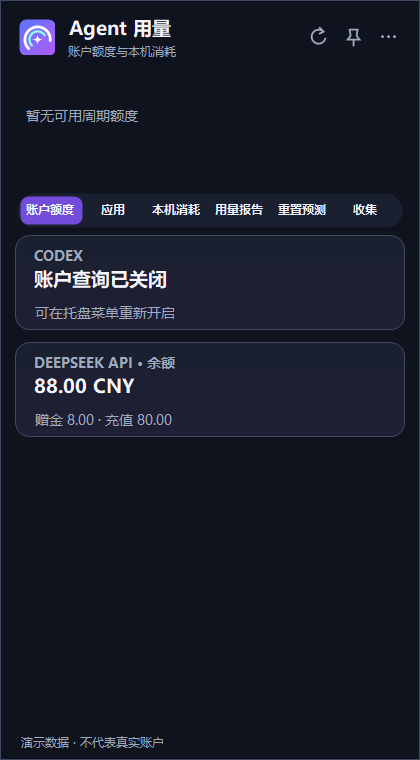
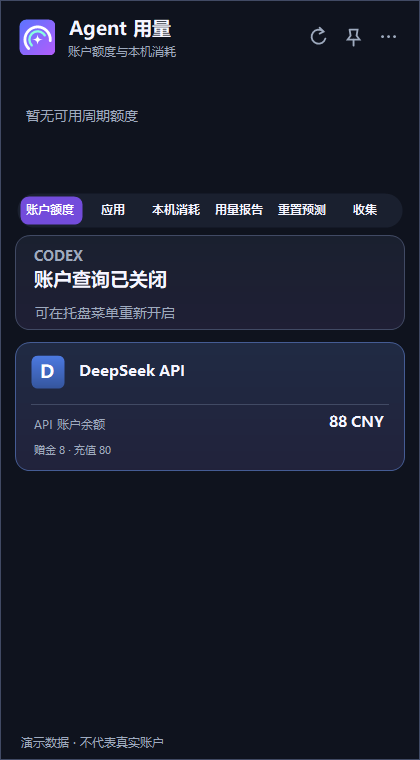
发布 Alpha 14 中文首页、隐私说明和实际渲染预览

Changed region(s): [[0.031, 0.4539, 0.9905, 0.6355]]

diff --git a/README.md b/README.md
@@ -4,87 +4,80 @@
 
 **AI 编程用量，点开托盘就能看。**
 
-基于 [Gary23333/agent-meter](https://github.com/Gary23333/agent-meter) 开发的 Windows 系统托盘工具，用于查看账户额度和本机 Agent 用量。
+账户额度、重置时间、本机消耗，收在 Windows 右下角。
 
-[English](README.en.md) · [开始使用](#开始使用) · [更新记录](windows/CHANGELOG.md) · [隐私与数据](#隐私与数据) · [参与贡献](#参与贡献)
+[![下载预览版](https://img.shields.io/github/v/release/FoxBai/agent-meter-windows?include_prereleases&label=预览版)](https://github.com/FoxBai/agent-meter-windows/releases)
+[![Windows 构建](https://github.com/FoxBai/agent-meter-windows/actions/workflows/windows-port.yml/badge.svg)](https://github.com/FoxBai/agent-meter-windows/actions/workflows/windows-port.yml)
+[![许可证：MIT](https://img.shields.io/badge/License-MIT-blue.svg)](LICENSE)
 
-[![Windows 构建](https://github.com/FoxBai/agent-meter-windows/actions/workflows/windows-port.yml/badge.svg)](https://github.com/FoxBai/agent-meter-windows/actions/workflows/windows-port.yml) [![许可证：MIT](https://img.shields.io/badge/License-MIT-blue.svg)](LICENSE)
+[下载](https://github.com/FoxBai/agent-meter-windows/releases/tag/windows-v0.1.0-alpha.14) · [快速使用](windows/QUICK_START.md) · [更新记录](windows/CHANGELOG.md) · [移植进度](windows/PORT_PLAN.md) · [English](README.en.md)
 
 </div>
 
-> **Windows 早期开发版。** 当前版本尚未覆盖原 macOS 项目的全部数据源和功能。
+基于 [Gary23333/agent-meter](https://github.com/Gary23333/agent-meter) 的独立 Windows 移植版。当前为 **Alpha 14**：已有可运行的便携包，功能、材质和动效仍在向 macOS 原版靠拢。
 
-![Agent Meter 面板，图中为虚构演示数据](windows/assets/screenshot.png)
+<p align="center">
+  <img src="windows/assets/screenshot.png" width="400" alt="深色托盘弹层，虚构演示数据">
+  <img src="windows/assets/screenshot-light.png" width="400" alt="浅色托盘弹层，虚构演示数据">
+</p>
 
-面板截图来自 Alpha 13，在隔离的 Windows 构建环境中使用虚构数据生成。默认界面是无边框托盘弹层；系统圆角和阴影取决于 Windows 版本，预览不包含桌面合成效果。实际字段取决于账户和本机记录。
+截图由真实 Windows 界面在隔离构建机中使用**虚构数据**生成；系统圆角、阴影和任务栏效果不包含在截图中。
+
+## 三步开始
+
+1. 从 [Alpha 14 发布页](https://github.com/FoxBai/agent-meter-windows/releases/tag/windows-v0.1.0-alpha.14) 下载 `AgentMeter-Windows-x64.zip`。
+2. 解压并保留完整文件夹，运行 `AgentMeter.Windows.exe`。便携包已包含运行环境；WorkBuddy 登录另需 [WebView2 Runtime](https://developer.microsoft.com/microsoft-edge/webview2/)。
+3. 点击通知区域的图标查看用量；找不到时展开隐藏图标。右键或顶部三个圆点可切换账户、托盘余量和界面风格。
+
+当前支持 Windows x64，开发验证环境为 Windows build 26300；其他系统版本与 ARM64 尚待验证。预览版未签名，发布页附 SHA-256 校验文件。账户数据依赖对应 Agent 的本地安装与登录状态，首次扫描大量历史记录可能较慢。
+
+## 随用随收，信息一眼可见
+
+- **真正的托盘弹层**：默认约 440 × 680，无系统标题栏，不占任务栏窗口按钮。点击外部或按 Esc 收起，图钉可临时固定；普通窗口模式也保留。
+- **托盘直接看余量**：图标显示剩余百分比，可选固定来源或自动最低余量。悬停查看来源与周期；过期、关闭和未知数据不冒充零。切换显示来源不会开启账户查询。
+- **账户信息集中展示**：双周期额度环、倒计时、套餐、钱包、积分和 Codex 重置卡明细放在对应账户卡片里。重置卡按到期时间排序，支持展开；服务报告的总数不会由程序擅自扣减。
+- **七种界面风格**：极简、原生、瓷白、极光、钛影、霓虹、棱镜。导航、卡片、菜单与分享图使用一致配色。
+
+![托盘数字的尺寸与颜色示例，虚构数据](windows/assets/tray-indicators.png)
+
+托盘自动模式比较百分比，不能据此比较不同服务的绝对额度；余额和积分绝对值不参加比较。图标为整数近似值，悬停保留一位小数。
+
+## 六个页面，各有分工
+
+| 页面 | 可以查看什么 |
+| --- | --- |
+| 账户 | 各服务剩余额度、周期重置时间、可用的套餐与余额，以及独立标注的本机统计 |
+| 应用 | 工具覆盖情况、近期有更新的活动记录；支持筛选和展开数据来源 |
+| 用量 | 今日、近 7 天、近 30 天和累计 Token，7 日模型排行、自然日趋势及今日 API 等价估算 |
+| 报告 | 本周、上周、本月和上月汇总，导出 Markdown 或随主题变化的 PNG 分享图 |
+| 预测 | 主动开启后查看第三方 24 / 48 小时预测、上游加权中位数、明确时间窗口与历史事件 |
+| 收集 | 本机用量徽章、5 小时和 7 天额度窗口的掉落卡片；更多类别仍在移植 |
+
+还提供默认关闭的低额度通知，以及上游「麻薯」「比特」两套桌宠。账户每 15 分钟刷新，也可手动刷新；应用页可见时每分钟单独检查本机活动。桌宠完整互动、通知效果和高 DPI 仍需实机验收。
 
 <details>
-<summary>查看浅色托盘弹层</summary>
+<summary>展开查看账户明细、应用与用量截图</summary>
 
-![瓷白主题托盘弹层，虚构演示数据](windows/assets/screenshot-light.png)
+![账户重置卡明细，虚构演示数据](windows/assets/account-reset-preview.png)
+![应用概览，虚构演示数据](windows/assets/applications-preview.png)
+![本机消耗，虚构演示数据](windows/assets/usage-preview.png)
+![账户本机用量与趋势，虚构演示数据](windows/assets/account-local-preview.png)
 
 </details>
 
 <details>
-<summary>查看本机消耗、报告、预测、收集与余额页面</summary>
+<summary>展开查看报告、预测、收集与余额截图</summary>
 
-![本机消耗页面，图中为虚构演示数据](windows/assets/usage-preview.png)
+![用量报告，虚构演示数据](windows/assets/report-preview.png)
+![报告分享图，虚构演示数据](windows/assets/report-share-preview.png)
+![重置预测，虚构演示数据](windows/assets/forecast-preview.png)
+![收集册，虚构演示数据](windows/assets/collection-preview.png)
+![DeepSeek API 余额，虚构演示数据](windows/assets/deepseek-preview.png)
+![WorkBuddy 积分，虚构演示数据](windows/assets/workbuddy-preview.png)
 
-![账户卡片中独立展示本机用量趋势，图中为虚构演示数据](windows/assets/account-local-preview.png)
-
-![应用概览和数据覆盖状态，图中为虚构演示数据](windows/assets/applications-preview.png)
-
-![用量报告页面，图中为虚构演示数据](windows/assets/report-preview.png)
-
-![重置预测页面，图中为虚构演示数据](windows/assets/forecast-preview.png)
-
-![收集页面，图中为虚构演示数据](windows/assets/collection-preview.png)
-
-![DeepSeek API 余额页面，图中为虚构演示数据](windows/assets/deepseek-preview.png)
-
-![WorkBuddy 积分页面，图中为虚构演示数据](windows/assets/workbuddy-preview.png)
 </details>
 
-<details>
-<summary>查看报告分享图示例</summary>
-
-![报告分享图，图中为虚构演示数据](windows/assets/report-share-preview.png)
-
-图片由程序使用虚构数据生成，报告与分享图已包含在预览版中。
-</details>
-
-## 功能
-
-- **随用随收的托盘弹层**：默认约 440 × 680，无系统标题栏，不占任务栏窗口按钮。左键托盘图标切换显示，点击外部或按 Esc 收起；图钉可临时固定，顶部三个圆点与托盘右键共用设置菜单。
-- **账户查询开关**：在托盘右键菜单的「账户查询」中分别启用或关闭 Codex、Kimi、Claude、MiniMax、DeepSeek API 和 WorkBuddy 账户查询；本机历史统计不受影响。选择保存在当前 Windows 用户的本地设置中，不包含凭据。MiniMax、DeepSeek 和 WorkBuddy 默认关闭，其余三个默认开启。
-- **低额度提醒**：可在托盘菜单主动开启；受支持的账户窗口剩余量低于 20% 时尝试显示 Windows 通知，同一周期避免重复提醒。提醒默认关闭，Windows 通知权限和实际显示效果仍需实机验证。
-- **桌宠（开发中）**：提供上游「麻薯」「比特」两种精灵图形象，默认隐藏；可在托盘菜单显示、切换，单击打开面板或拖动位置。低额度和近期本机记录更新会改变动画。透明穿透、交互及窗口表现尚待实机验证；原版 3D 形象与完整互动仍在移植。
-- **七种主题**：极简、原生、瓷白、极光、钛影、霓虹、棱镜；胶囊导航、服务图形、细滚动轨道和设置菜单使用统一配色。账户页保留额度环，其他页面使用紧凑头部。尚未复现 Mac 版的全部材质与动效。
-- **Codex 账户额度**：在账户服务提供数据时，展示额度窗口、重置时间、积分及重置卡。未提供的字段不会按零显示。
-- **账户分组**：同一服务的多个额度窗口合并到一张卡片，方便同时比较周期；新布局尚待实机验收。
-- **双周期仪表**：同时提供短周期和 7 天额度时显示双环，否则显示单环。账户倒计时在页面可见时按分钟更新，只使用服务给出的时间；到点后提示待刷新，不自行修改剩余额度。
-- **Kimi Code 账户额度**：尝试连接已经运行的本机 Kimi 服务，不主动启动服务；当前仅通过模拟服务验证，真实 Windows 账户尚待验证。
-- **Claude Code 账户额度**：在已有本地订阅凭据文件时，向 Anthropic 的用量接口查询额度；不会刷新或修改原有登录。当前仅通过模拟数据验证，真实 Windows 账户尚待验证。
-- **MiniMax Code 账户额度**：支持在托盘菜单添加、更新和删除最多 5 个账户；密钥保存在 Windows 凭据管理器，各账户分开查询。查询默认关闭，须主动开启。账户列表文件不存在时也可使用已有的 `MINIMAX_TOKEN_PLAN_KEY` 与 `MINIMAX_REGION` 环境变量，修改环境变量后需重启程序。仅经模拟测试，真实账户和窗口尚待实机验证。
-- **DeepSeek API 余额（开发中）**：通过托盘菜单由用户自行添加或删除 API 密钥，保存后启用余额查询；密钥保存在 Windows 凭据管理器，不读取浏览器登录。返回的充值余额和赠金分别显示，不代表订阅额度或本机 Token 消耗。依据 [DeepSeek 官方余额接口](https://api-docs.deepseek.com/zh-cn/api/get-user-balance/)；目前仅经模拟测试，真实账户和窗口交互尚待验收。
-- **WorkBuddy 账户积分（实验功能）**：由用户主动在应用内登录，使用独立的 WebView2 资料目录查询积分；默认关闭。该功能参考上游项目的网页接口实现，接口并非公开稳定的官方契约；真实账号和登录流程尚待验证。需要单独安装 [Microsoft Edge WebView2 Runtime](https://developer.microsoft.com/microsoft-edge/webview2/)。
-- **账户卡片内的本机用量**：当账户额度及对应账本可读取时，在 Codex、Kimi、Claude、WorkBuddy 额度卡片中展示本机 Token 汇总；有有效逐日记录时展示近 30 个北京时间自然日的趋势。本机记录未按登录账户区分，不能当作当前账户的用量；MiniMax 多账户不会重复归入同一份本机账本。
-- **应用概览**：按工具汇总已读取的账户额度、本机 Token 和近 24 小时活动记录，支持按最近更新筛选并展开数据覆盖状态；近期记录更新不代表应用正在运行。
-- **应用活动单独刷新**：仅在应用页可见时，按至少 60 秒的间隔单独读取本机活动；与完整刷新互斥，不查询账户。隐藏面板或切换页面会取消当前活动读取；定时器交互和资源占用仍需实机验收。
-- **本机用量**：读取支持的会话账本，展示今日、近 7 天、近 30 天和累计 Token。Qoder CN 本机积分消耗单独展示，不计入 Token。账户额度和本机历史分别展示，统计范围不同。
-- **应用活动**：汇总近 24 小时各客户端活动记录，并标出采集时最近 15 分钟有更新的记录数；这只是记录更新时间，不代表进程仍在运行或任务已完成。不同客户端的覆盖范围可能不同。
-- **模型排行**：按近 7 天的本机记录汇总模型用量；当读取出错、模型明细不完整或数量超过采集上限时，界面会标注统计不完整。不同账本可能包含重叠记录，汇总值并非账户总用量。
-- **本机趋势**：按北京时间展示最近 7 个自然日的 Token 柱状图；与按过去 7×24 小时统计的排行周期不同。仅汇总支持逐日记录的本机账本，读取不完整时会提示。
-- **自然周期报告**：提供本周、上周、本月和上月的本机 Token 汇总，提示当前周期尚未结束；可导出汇总 Markdown 或跟随当前风格的 PNG 分享图。实际导出交互仍待实机验收。
-- **重置预测**：主动开启后，可看各站 24 / 48 小时数值、上游算法计算的加权中位数、站点数值范围、明确时间窗口及最多 40 条历史事件。超过 48 小时的站点不参与合并；不把缺失记作零，也不把时间到点当作已重置。默认关闭，不代表 OpenAI 官方承诺或个人额度周期。
-- **收集册（开发中）**：按上游规则从本机逐日账本计算单日、累计、连续使用、多应用及个人纪录徽章；可能重叠的账本会影响结果，不完整来源会标注。签到、图片、花费类徽章和对应卡片尚未移植，界面仍待实机验收。
-- **额度掉落卡片（开发中）**：复用上游 5 小时与 7 天窗口的用量阈值，同一窗口的同一等级只记录一次。额度状态和卡片数量保存在本地；缺少可信额度或重置时间时不会猜测掉落。窗口交互和真实账户仍待验收。
-- **API 等价估算**：对本机账本中能匹配价格的模型，显示今日美元估算；缺少价格、用量拆分或必要峰谷信息时标注不完整。可从托盘菜单编辑自定义美元价格，覆盖上游内置快照。内置价格可能过时，部分人民币价格按固定汇率 1 美元 = 7.25 元换算；这不是订阅扣费或实际账单。实时价格与汇率同步尚未接入。
-- **后台刷新**：账户数据可先显示，历史记录继续在后台扫描。支持手动刷新和每 15 分钟自动刷新；程序运行期间会在内存中缓存已解析的用量，变化的文件会重新读取。
-
-## 数据来源
-
-下表描述当前 `main` 分支，下载包的具体范围以对应发布说明为准。
+## 支持的数据来源
 
 | 来源 | 账户额度 | 本机 Token 历史 |
 | --- | --- | --- |
@@ -101,23 +94,28 @@
 | MiMo Code、DevECo | 暂不支持 | 本机用量数据库 |
 | Qoder CN | 暂不支持 | 本机积分消耗，不是 Token 或账户余额 |
 
-新增的 Kimi、OpenCode、MiniMax Code、MiMo Code、DevECo 和 Qoder CN 读取器已通过 Windows 模拟数据测试，但尚未在这台 Windows 电脑上用对应真实安装验证；OpenCode v2 消息暂不计入。工具只展示实际读取到的数据。不同账户可能不提供某些字段，应用版本变化也可能影响读取。本机历史只覆盖当前电脑可见的记录，不等于账户总用量、账单或套餐剩余额度。目前“今日”等统计周期按**北京时间（Asia/Shanghai）**划分，不会把不同服务的积分相加。
+Codex 账户和部分本机账本已有真实数据核对；其他新增账户接入目前以模拟测试为主。OpenCode v2 消息暂不计入；Windows 版尚未完成所有上游数据源、账户隔离、3D 桌宠和动效。逐项证据与待验收内容见[移植计划](windows/PORT_PLAN.md)。
 
-## 开始使用
+## 数字怎么理解
 
-### 环境要求
+**账户额度与本机历史分别计量。** 本机历史只覆盖当前电脑能读取的记录，未按登录账户归属，不等于账户总用量；不同账本可能重叠。今日、自然日和周月报告使用北京时间（Asia/Shanghai），近 7 天等滚动窗口另行标注。未知不等于零，不同服务的积分不相加。
 
-- Windows x64，并在本机安装、配置需要查看的 Agent。本项目已在 Windows build 26300 上进行开发验证；其他系统版本和 Windows ARM64 仍需验证。
-- 从源码构建需要 Python 3.10 和 .NET 8 SDK。构建出的独立目录包含 Python 后端和 .NET 运行时。
-- 查看 Codex 账户额度需要可用且已登录的 `codex.exe`，其位置应在 `PATH` 中或 Codex Desktop 安装目录内。Agent Meter 不负责登录账户。
+API 等价估算使用上游内置价格快照或本机自定义美元价格，单位为每百万 Token；部分人民币价格使用 1 美元 = 7.25 元的固定回退汇率。它不是实际账单或订阅扣费，缺少必要字段时会标注不完整。实时价格、汇率和更完整的峰谷设置仍在移植。
 
-### 下载预览版
+预测来自第三方站点。范围带表示站点数值的最小值与最大值，不能当作置信区间；超过 48 小时的来源不参与合并。预测时间到点只显示待确认，不代表 OpenAI 承诺或个人账户已重置。
 
-前往 [Windows v0.1.0-alpha.13 发布页](https://github.com/FoxBai/agent-meter-windows/releases/tag/windows-v0.1.0-alpha.13)，下载 `AgentMeter-Windows-x64.zip`，解压后运行其中的 `AgentMeter.Windows.exe`。便携包已包含程序运行环境；WorkBuddy 登录另需 Microsoft Edge WebView2 Runtime。当前预览版尚未进行代码签名，发布页同时提供 SHA-256 校验文件；弹层失焦、固定、子窗口、Esc 和翻页键已在隔离 Windows 构建机检查；真实任务栏、多屏、高 DPI 及另一台全新实体电脑仍待验收。
+## 隐私与数据
 
-### 从源码构建
+- 本机历史只在本机处理，界面使用汇总指标，不上传会话记录，也不要求注册 Agent Meter 账户。
+- Codex、Kimi、Claude 查询默认开启；MiniMax、DeepSeek、WorkBuddy、第三方预测、通知和桌宠默认关闭。账户开关不影响本机账本读取。
+- 启用账户查询时会联系对应服务。Codex 使用已有登录，Claude 使用已有本地订阅凭据；MiniMax 和 DeepSeek 密钥保存在 Windows 凭据管理器。WorkBuddy 使用独立的 WebView2 登录目录。
+- Windows 界面尚未开放自动领取或兑换积分。托盘来源设置只保存模式，切换或更新图标不额外联网。
 
-在项目根目录打开 PowerShell：
+凭据传递方式、网络域名、本地缓存、删除与退出登录的区别，见[隐私与本地数据说明](windows/PRIVACY.md)。安全问题请按 [SECURITY.md](SECURITY.md) 反馈。
+
+## 从源码构建
+
+需要 Python 3.10 与 .NET 8 SDK。在项目根目录打开 PowerShell：
 
 ```powershell
 py -3.10 -m venv .venv-win
@@ -126,57 +124,35 @@ powershell -NoProfile -ExecutionPolicy Bypass -File windows\build.ps1
 .\windows\dist\AgentMeter\AgentMeter.Windows.exe
 ```
 
-请保留完整的 `AgentMeter` 输出目录。启动后在 Windows 通知区域查找图标；如果没有直接看到，可展开隐藏的图标。首次需要扫描已有的本机记录，记录较多时可能耗时较长；程序继续运行期间，后续刷新可以复用内存缓存，但文件变化和缓存淘汰仍会影响速度。
-
-如果只想查看界面，可运行不读取账户和本机历史的演示模式：
-
-```powershell
-.\windows\dist\AgentMeter\AgentMeter.Windows.exe --demo
-```
-
-排查时可使用 `--window`，以普通任务栏窗口显示真实数据；日常使用无需添加参数。点击外部或按 Esc 只收起面板；退出程序请从右键或顶部更多菜单选择**退出**。详细交互见 [弹层设计说明](windows/DESIGN.md)。
-
-### 运行测试
+`--demo` 使用虚构数据，不读取真实账户或历史；`--window` 以普通窗口查看真实数据。退出请在菜单中选择「退出」，收起面板会继续后台运行。
 
 ```powershell
 powershell -NoProfile -ExecutionPolicy Bypass -File windows\test.ps1
 dotnet build windows\AgentMeter.Windows -c Release
 ```
 
-上述命令覆盖当前 Windows 适配的重点路径，不代表原项目全部 macOS 功能均已在 Windows 验证。部分上游测试还需要额外工具，或包含针对其他系统的假设。
-
-## 隐私与数据
-
-Windows 适配层读取本机会话文件和用量数据库，提取用量指标，不在面板中展示对话内容。应用活动读取器会访问会话时间和项目路径等元数据，但只向界面传递各应用的汇总计数和更新时间，不传递会话标识、项目路径或内容。解析后的用量只缓存在有限的进程内存中，退出时清除。Windows 界面不上传这些历史记录，也不要求注册 Agent Meter 账户。Codex、Kimi、Claude 账户查询默认开启，MiniMax 和 DeepSeek API 查询默认关闭；可在托盘菜单分别调整，选择保存在 `%LOCALAPPDATA%\AgentMeter\preferences.json`，只包含开关状态。自定义价格、外观、提醒和桌宠设置保存在同一目录；价格文件无法读取时会隐藏金额并提示。额度提醒只在当前进程内去重，重启后可能再次提示。桌宠素材随程序内置，动画不连接网络。
-
-第三方重置预测默认关闭。开启后会通过 HTTPS 访问 `willreset.com`、`codex-reset.com` 和 `codexreset.org`，不发送账户凭据或本机会话；公开预测及其历史缓存在 `%LOCALAPPDATA%\AgentMeter\reset-forecast.json`，关闭开关不会自动删除缓存。已发出的请求无法撤回。
-
-额度掉落卡片通过本地进程的标准输入传递必要的额度字段和多账户名称，将已观察到的额度窗口、峰值、重置时间与卡片数量保存在 `%LOCALAPPDATA%\AgentMeter\collection.json`，不保存密钥或会话内容。多账户名称以摘要区分；修改账户名称会被视为新的跟踪对象。关闭账户查询后不再获取该账户的新额度，已有本地卡册不会自动删除；账本无法读取时会提示，不会按空账本覆盖。
-
-刷新 Codex 账户数据时，程序会启动本机已安装的 Codex app-server，使用现有登录状态，Codex 可能访问服务提供方。若 Claude Code 本地订阅凭据文件存在，程序会在内存中读取其中的访问令牌，通过 HTTPS 向 Anthropic 用量接口发送该令牌；不会刷新、修改或保存该令牌。用户添加的 MiniMax 密钥由 Windows 凭据管理器保存；账户名称、区域及随机标识保存在本地 `minimax-accounts.json`，不包含密钥。开启查询后，密钥通过子进程标准输入传递，并通过 HTTPS 发往所选区域的 MiniMax 用量接口；不放在命令行或应用日志中。仅在账户列表文件不存在时回退到环境变量；通过界面清空账户后会保留空列表，不会自动使用环境变量。关闭来源时程序会尝试中止当前账户查询，已发出的请求无法撤回。程序不会主动发送模型提示词或兑换积分。
-
-DeepSeek API 密钥由用户自行添加并保存于 Windows 凭据管理器；启用查询时经本地子进程标准输入传递，并通过 HTTPS 发往 DeepSeek 官方余额接口，不写入命令行或应用日志。该功能不读取浏览器登录或环境变量中的密钥；可在托盘菜单删除已保存的密钥并关闭查询。
-
-WorkBuddy 登录使用 `%LOCALAPPDATA%\AgentMeter\webprofiles\workbuddy` 独立目录，保存网站 Cookie 和网页存储，不读取已有浏览器资料。取消登录不会清除资料；「清除本地登录」清理该目录对应的浏览数据，不等于在服务端退出登录。启用后，所需 Cookie 和浏览器标识经本地子进程标准输入传递，发送至 WorkBuddy 的 HTTPS 用量接口，不写入命令行或应用日志。程序检查目录重定向及可能覆盖资料目录的 WebView2 设置，无法确认隔离时停止连接；系统中与本应用无关的覆盖策略也可能导致停用。登录主窗口和弹窗仅允许 WorkBuddy、QQ 和腾讯域名的 HTTPS 跳转，外部应用和下载被阻止，其他登录方式可能无法使用。网站仍可能加载自身所需的网页资源。
-
-原 macOS 项目的可选积分领取功能没有在 Windows 界面开放。如果工作环境对本机会话访问有要求，请自行检查代码和相应服务的使用规则。
+针对性测试覆盖 Windows 适配重点路径；CI 另外检查打包程序、托盘切换、弹层生命周期、WebView2 隔离与演示渲染。通过构建和隔离检查不等于完成所有实体设备验收。
 
 ## 常见问题
 
-- **找不到托盘图标**：展开通知区域的隐藏图标；也可以使用 `--window` 检查面板。
-- **没有 Codex 额度**：确认 `codex.exe` 可用且已登录，再刷新；网络或服务异常也可能导致暂时不可用。
-- **没有本机历史**：确认当前 Windows 用户已使用过相应 Agent，且本机记录仍存在。可通过 `CODEX_HOME`、`CLAUDE_CONFIG_DIR`、`DSH_HOME`、`KIMI_CODE_HOME`、`XDG_DATA_HOME` 和 `OPENCODE_DB` 覆盖对应默认路径。
-- **首次刷新较慢**：首次需要解析已有文件，程序保持运行时后续刷新通常较快；文件变化、缓存淘汰或记录过多仍可能影响速度。
-- **和官方页面数字不同**：本机历史与账户统计的范围、更新时间不同；缺失或无法识别的字段不会被假定为零。
+| 现象 | 处理方法 |
+| --- | --- |
+| 托盘没有数字 | 检查「托盘余量」来源及对应账户开关；数据未知、超过 30 分钟或窗口已到重置时间时恢复为应用图标 |
+| 没有 Codex 额度 | 确认已登录的 `codex.exe` 在 PATH 或 Codex Desktop 安装目录中，再刷新 |
+| 没有本机历史 | 确认当前 Windows 用户已使用过对应工具且记录仍在；可用 `CODEX_HOME`、`CLAUDE_CONFIG_DIR`、`DSH_HOME`、`KIMI_CODE_HOME`、`XDG_DATA_HOME` 或 `OPENCODE_DB` 指定路径 |
+| 首次刷新慢 | 首次需要扫描历史，后续复用有限的内存缓存；退出、文件变化或缓存淘汰后需要重新读取 |
+| 数字与官方页面不同 | 核对账户额度和本机历史的范围、周期、更新时间与不完整来源提示 |
 
-## 开发与致谢
-
-Windows 原生界面和适配层位于 [`windows/`](windows/)。[`agent_meter/`](agent_meter/) 中的 Python 采集器基于 [Gary23333/agent-meter](https://github.com/Gary23333/agent-meter) 修改，上游基准提交为 [`ac547d0`](https://github.com/Gary23333/agent-meter/commit/ac547d0dd56031cad70c3f0adf6266ce96a69bf9)。原作者版权声明和 MIT 许可保留在 [LICENSE](LICENSE)，上游第三方声明见 [THIRD_PARTY_NOTICES.md](THIRD_PARTY_NOTICES.md)。本项目是独立移植版，并非原项目或任何 Agent 服务商的官方发行版。
+更多交互见[快速使用](windows/QUICK_START.md)，布局和失焦规则见[弹层设计](windows/DESIGN.md)。
 
 ## 参与贡献
 
-欢迎提交问题和改进。反馈时请说明 Windows 版本、应用版本、涉及的数据源、预期结果和经过脱敏的复现步骤；不要在公开问题中附上凭据、对话记录或私密账户信息。提交改动前请运行上述针对性测试，并说明尚未验证的平台或数据源。
+欢迎通过 [Issues](https://github.com/FoxBai/agent-meter-windows/issues) 反馈，或提交改进。请提供 Windows 版本、应用版本、数据源、预期结果和脱敏后的复现步骤；请勿附上凭据、私密账户信息或对话内容。
 
-## 许可证
+Windows 新代码、注释与文档以中文为主。修改前阅读 [贡献说明](CONTRIBUTING.md)；提交时附上针对性测试结果，界面改动请提供虚构数据截图，并说明尚未验证的平台。当前优先项：更多原版数据源、多屏与高 DPI、账户归属、材质与动效。
 
-[MIT](LICENSE)，保留原作者 Gary23333 的版权声明；第三方组件遵循各自许可。
+## 致谢与许可
+
+感谢 [Gary23333/agent-meter](https://github.com/Gary23333/agent-meter) 提供原版设计、采集器和素材。移植基准为 [`ac547d0`](https://github.com/Gary23333/agent-meter/commit/ac547d0dd56031cad70c3f0adf6266ce96a69bf9)，Windows 原生界面与适配层位于 [`windows/`](windows/)。本项目是独立移植版，并非上游或任何 Agent 服务商的官方发行版。
+
+[MIT](LICENSE)，保留原作者 Gary23333 的版权声明；第三方组件和素材遵循各自许可，见 [THIRD_PARTY_NOTICES.md](THIRD_PARTY_NOTICES.md)。

diff --git a/README.en.md b/README.en.md
@@ -16,12 +16,14 @@ A Windows system-tray companion for account limits and local agent usage, built 
 
 ![Agent Meter panel with fictional demo data](windows/assets/screenshot.png)
 
-The Alpha 13 panel previews use fictional data on an isolated Windows runner. The default panel is a borderless tray flyout; desktop-composited corners and shadows are not included in these renders. Actual availability depends on the agent, account, local files and version. See also the [local usage](windows/assets/usage-preview.png), [calendar report](windows/assets/report-preview.png), [reset forecast](windows/assets/forecast-preview.png), [collection](windows/assets/collection-preview.png), [DeepSeek balance](windows/assets/deepseek-preview.png) and [share card](windows/assets/report-share-preview.png) previews.
+The Alpha 14 panel previews use fictional data on an isolated Windows runner. The default panel is a borderless tray flyout; desktop-composited corners and shadows are not included in these renders. Actual availability depends on the agent, account, local files and version. See also the [local usage](windows/assets/usage-preview.png), [calendar report](windows/assets/report-preview.png), [reset forecast](windows/assets/forecast-preview.png), [collection](windows/assets/collection-preview.png), [DeepSeek balance](windows/assets/deepseek-preview.png) and [share card](windows/assets/report-share-preview.png) previews.
 
 ## What it does
 
 - **Tray flyout** — a compact borderless panel with no taskbar window button. Click the tray icon to toggle, click outside or press Esc to dismiss, or pin it temporarily. The top menu and tray context menu share the same settings.
-- **Account switches** — enable or disable Codex, Kimi, Claude, MiniMax and DeepSeek account lookups independently from the tray menu. Local history is unaffected. The per-user preferences contain only switches, never credentials; MiniMax and DeepSeek are off by default.
+- **Tray remaining percentage** — choose a provider, the lowest valid window, or the brand icon. Unknown, expired and disabled readings are excluded; a tooltip identifies the source and period. Selection adds no account queries.
+- **Unified account details** — balances, wallets, supported plan names and Codex reset-credit expiry tiles appear within the relevant account card. Expired details do not rewrite provider-reported totals.
+- **Account switches** — enable or disable Codex, Kimi, Claude, MiniMax and DeepSeek account lookups independently from the tray menu. Local history is unaffected. The per-user preferences contain only switches, never credentials; MiniMax, DeepSeek and WorkBuddy are off by default.
 - **Low-quota alerts** — optionally enable Windows notifications below 20% remaining; repeat alerts for the same window are suppressed. Alerts default to off, and actual notification display still needs device testing.
 - **Desktop pet (in development)** — includes the upstream Mochi and Bit sprite packs, hidden by default. Users can show, switch and drag them from the tray menu; animations respond to low quota and recent local updates. Transparency and interaction still need device testing, and the upstream 3D characters and full interactions are not yet ported.
 - **Appearance** — choose from seven named palettes and card styles in the tray menu; the choice is remembered. The Windows port does not yet reproduce all macOS materials or animations, and visual review is ongoing.
@@ -73,7 +75,7 @@ The new Kimi, OpenCode, MiniMax Code, MiMo Code, DevECo and Qoder CN readers hav
 
 ### Download the preview
 
-Download [Windows v0.1.0-alpha.13](https://github.com/FoxBai/agent-meter-windows/releases/tag/windows-v0.1.0-alpha.13), extract `AgentMeter-Windows-x64.zip`, and run `AgentMeter.Windows.exe` from the extracted folder. The portable bundle includes the application runtime; WorkBuddy requires a separately installed WebView2 Runtime. The preview is not code-signed; the release page includes a SHA-256 checksum. Isolated Windows checks cover deactivation, pinning, owned windows, Esc and scrolling. Real taskbar, multi-monitor, high-DPI and a separate clean physical installation remain unverified.
+Download [Windows v0.1.0-alpha.14](https://github.com/FoxBai/agent-meter-windows/releases/tag/windows-v0.1.0-alpha.14), extract `AgentMeter-Windows-x64.zip`, and run `AgentMeter.Windows.exe` from the extracted folder. The portable bundle includes the application runtime; WorkBuddy requires a separately installed WebView2 Runtime. The preview is not code-signed; the release page includes a SHA-256 checksum. Isolated Windows checks cover deactivation, pinning, owned windows, Esc and scrolling. Real taskbar, multi-monitor, high-DPI and a separate clean physical installation remain unverified.
 
 ### Build from source
 
@@ -107,7 +109,7 @@ These are targeted tests, not a claim that every upstream macOS feature is cover
 
 ## Privacy and data
 
-The Windows adapter reads local session files and usage databases; it derives usage metrics rather than displaying conversation text. The activity reader accesses timestamps and project-path metadata but passes only per-application counts and update times to the interface, not session IDs, paths or content. Parsed usage is held in a bounded in-memory cache and is discarded when the app exits. The Windows interface does not upload this history or require an Agent Meter account. Codex, Kimi and Claude account lookups default to on; MiniMax and DeepSeek default to off. Switch states are saved without credentials in `%LOCALAPPDATA%\AgentMeter\preferences.json`. Custom prices and appearance are stored as `prices.json` and `appearance.json` in the same directory; a malformed price file hides estimates and shows a notice. Codex account refresh starts the locally installed Codex app-server, which uses the existing Codex login and may contact the provider. If a Claude Code subscription credential file exists, the app reads its access token in memory and sends it over HTTPS to Anthropic's usage endpoint; it does not refresh or modify that token.
+The Windows adapter reads local session files and usage databases; it derives usage metrics rather than displaying conversation text. The activity reader accesses timestamps and project-path metadata but passes only per-application counts and update times to the interface, not session IDs, paths or content. Parsed usage is held in a bounded in-memory cache and is discarded when the app exits. The Windows interface does not upload this history or require an Agent Meter account. Codex, Kimi and Claude account lookups default to on; MiniMax, DeepSeek and WorkBuddy default to off. Switch states are saved without credentials in `%LOCALAPPDATA%\AgentMeter\preferences.json`. Custom prices and appearance are stored as `prices.json` and `appearance.json` in the same directory; a malformed price file hides estimates and shows a notice. Codex account refresh starts the locally installed Codex app-server, which uses the existing Codex login and may contact the provider. If a Claude Code subscription credential file exists, the app reads its access token in memory and sends it over HTTPS to Anthropic's usage endpoint; it does not refresh or modify that token.
 
 Third-party forecasts are off by default. Enabling them contacts `willreset.com`, `codex-reset.com` and `codexreset.org` over HTTPS without sending account credentials or local sessions. Public forecast data and history are cached in `%LOCALAPPDATA%\AgentMeter\reset-forecast.json`; disabling the switch does not erase this cache or retract requests already sent.
 

diff --git a/windows/PORT_PLAN.md b/windows/PORT_PLAN.md
@@ -6,11 +6,11 @@
 
 | 功能或界面 | Windows 当前状态 | 后续验收 |
 | --- | --- | --- |
-| 托盘入口、行情与交互 | 默认无边框托盘弹层，加入外部点击和 Esc 收起、临时固定、更多菜单；按触发位置与工作区定位，并对多屏及任务栏方向进行模拟测试 | 实机验证隐藏图标、失焦与菜单、圆角阴影、退出清理、多屏和高 DPI；设计适合 Windows 的行情展示 |
+| 托盘入口、余量与交互 | 无边框弹层、外部点击及 Esc 收起、固定与更多菜单；数字图标可选来源或自动最低余量，过期数据回退；细滚动轨道独立裁剪并验证拖动 | 实机验证隐藏图标、菜单、圆角阴影、退出清理、多屏和高 DPI；继续打磨小尺寸表现 |
 | 账户额度 | Codex 已在本机实测；Kimi 本地服务、Claude Code 凭据、MiniMax 和 DeepSeek API 余额通过模拟测试；已加入默认关闭的 WorkBuddy 独立网页登录及积分查询 | 验证托盘开关交互及真实 Windows 账户和 WorkBuddy 登录；继续适配 Qoder、TRAE、即梦及其他原项目来源 |
 | 应用和本机消耗 | 多个本地账本、四个统计周期、模型排行、趋势及近 24 小时应用活动汇总已接入；额度、本机 Token、活动来源状态按应用汇总，并支持筛选和展开。应用页可见时单独刷新本机活动；Qoder 积分独立计量 | 验证应用概览、定时刷新、趋势与排行界面；完善客户端路径、项目归因、历史导入和重复计数规则 |
 | 模型与计费 | 使用上游内置价格和固定回退汇率，展示逐账本的今日美元 API 等价估算；支持本机自定义美元价格 | 验证实际账本和价格编辑界面；移植模型目录同步、更多周期、峰谷与汇率设置 |
-| 七套主题与卡片 | 七种配色、连续胶囊导航和服务语义图形已接入；账户页保留双周期仪表，其他页使用紧凑头部。账户时钟可见时按分钟更新。Codex、Kimi、Claude、WorkBuddy 卡片加入本机汇总和逐日趋势，明确未按账户区分 | 对照上游逐套实机检查与完善材质、动效、账户卡片、多账户归因和自适应布局；仍未达到完整视觉一致 |
+| 七套主题与卡片 | 七种配色、连续胶囊导航和服务语义图形已接入；账户页保留双周期仪表，其他页使用紧凑头部。账户时钟可见时按分钟更新。钱包、积分、套餐和 Codex 重置卡到期明细整合进对应卡片；本机汇总和逐日趋势明确未按账户区分 | 对照上游逐套实机检查与完善材质、动效、账户卡片、多账户归因和自适应布局；仍未达到完整视觉一致 |
 | 通知与自动领取 | 低额度提醒默认关闭，可在托盘菜单开启；阈值与同周期去重已做模拟测试 | 实机验证 Windows 通知；继续移植重置卡、积分和订阅提醒；自动领取默认关闭，逐平台验证写操作与授权 |
 | 多账号 | MiniMax 最多 5 个账户独立查询；密钥保存在 Windows 凭据管理器，账户列表和查询链路已用模拟数据测试 | 实机验证账户管理窗口和真实账户；扩展其他服务的隔离与切换 |
 | 重置预测 | 默认关闭，区分公布值与模型值；新增上游加权中位数、站点范围、明确时间窗口倒计时及最多 40 条历史。超过 48 小时的来源不参加综合预测，时间到点只提示待确认 | 验证真实网站字段变化与界面交互；继续完善原版的承诺摘要、插画和落地验证，不把预测当作个人账户重置 |
@@ -32,7 +32,9 @@
 - [Alpha 11 预览版](https://github.com/FoxBai/agent-meter-windows/releases/tag/windows-v0.1.0-alpha.11) 对应提交 `1067f97`；应用概览的筛选和展开在隔离构建机通过基础检查，深浅色和窄窗口演示已检查，实体设备仍需验收。
 - [Alpha 12 预览版](https://github.com/FoxBai/agent-meter-windows/releases/tag/windows-v0.1.0-alpha.12) 对应提交 `68d9010`；活动刷新条件、打包后的隔离数据读取和隐私字段过滤已检查，界面定时交互和资源占用仍需实机验收。
 - 主分支提交 `9b8b412` 后，在隔离 Windows 构建机用虚构数据验证了活动刷新触发、间隔、切换页面取消、隐藏时停止及重新打开后恢复；实体设备上的定时器和资源占用仍需验收。
-- 当前公开 [Alpha 13 预览版](https://github.com/FoxBai/agent-meter-windows/releases/tag/windows-v0.1.0-alpha.13) 对应提交 `dc8d948`。Windows 构建与跨平台检查通过；隔离 Windows 构建机检查了弹层固定、菜单保护、子窗口保护、失焦收起、Esc 和翻页键，生成 59 张虚构数据预览，主要深浅主题、窄窗口和菜单已检查。ZIP 独立解压验证了本机账本、隐私字段、账户开关、卡册和预测合并／历史／缓存。真实任务栏、多屏、高 DPI、窗口阴影及真实新增账户仍未完成实机验收。
+- [Alpha 13 预览版](https://github.com/FoxBai/agent-meter-windows/releases/tag/windows-v0.1.0-alpha.13) 对应提交 `dc8d948`。Windows 构建与跨平台检查通过；隔离 Windows 构建机检查了弹层固定、菜单保护、子窗口保护、失焦收起、Esc 和翻页键，生成 59 张虚构数据预览，主要深浅主题、窄窗口和菜单已检查。ZIP 独立解压验证了本机账本、隐私字段、账户开关、卡册和预测合并／历史／缓存。真实任务栏、多屏、高 DPI、窗口阴影及真实新增账户仍未完成实机验收。
+
[1 lines of base64/hex data omitted]
 
 ## 安全与数据边界
 

diff --git a/windows/PRIVACY.md b/windows/PRIVACY.md
@@ -1,0 +1,20 @@
+# 隐私、凭据与本地数据
+
+Windows 适配层读取本机会话文件和用量数据库，提取用量指标，不在面板中展示对话内容。应用活动读取器会访问会话时间和项目路径等元数据，但只向界面传递各应用的汇总计数和更新时间，不传递会话标识、项目路径或内容。解析后的用量只缓存在有限的进程内存中，退出时清除。Windows 界面不上传这些历史记录，也不要求注册 Agent Meter 账户。Codex、Kimi、Claude 账户查询默认开启，MiniMax、DeepSeek API 和 WorkBuddy 查询默认关闭；可在托盘菜单分别调整，选择保存在 `%LOCALAPPDATA%\AgentMeter\preferences.json`，只包含开关状态。自定义价格、外观、提醒和桌宠设置保存在同一目录；价格文件无法读取时会隐藏金额并提示。额度提醒只在当前进程内去重，重启后可能再次提示。桌宠素材随程序内置，动画不连接网络。
+
+第三方重置预测默认关闭。开启后会通过 HTTPS 访问 `willreset.com`、`codex-reset.com` 和 `codexreset.org`，不发送账户凭据或本机会话；公开预测及其历史缓存在 `%LOCALAPPDATA%\AgentMeter\reset-forecast.json`，关闭开关不会自动删除缓存。已发出的请求无法撤回。
+
+额度掉落卡片通过本地进程的标准输入传递必要的额度字段和多账户名称，将已观察到的额度窗口、峰值、重置时间与卡片数量保存在 `%LOCALAPPDATA%\AgentMeter\collection.json`，不保存密钥或会话内容。多账户名称以摘要区分；修改账户名称会被视为新的跟踪对象。关闭账户查询后不再获取该账户的新额度，已有本地卡册不会自动删除；账本无法读取时会提示，不会按空账本覆盖。
+
+刷新 Codex 账户数据时，程序会启动本机已安装的 Codex app-server，使用现有登录状态，Codex 可能访问服务提供方。若 Claude Code 本地订阅凭据文件存在，程序会在内存中读取其中的访问令牌，通过 HTTPS 向 Anthropic 用量接口发送该令牌；不会刷新、修改或保存该令牌。用户添加的 MiniMax 密钥由 Windows 凭据管理器保存；账户名称、区域及随机标识保存在本地 `minimax-accounts.json`，不包含密钥。开启查询后，密钥通过子进程标准输入传递，并通过 HTTPS 发往所选区域的 MiniMax 用量接口；不放在命令行或应用日志中。仅在账户列表文件不存在时回退到环境变量；通过界面清空账户后会保留空列表，不会自动使用环境变量。关闭来源时程序会尝试中止当前账户查询，已发出的请求无法撤回。程序不会主动发送模型提示词或兑换积分。
+
+DeepSeek API 密钥由用户自行添加并保存于 Windows 凭据管理器；启用查询时经本地子进程标准输入传递，并通过 HTTPS 发往 DeepSeek 官方余额接口，不写入命令行或应用日志。该功能不读取浏览器登录或环境变量中的密钥；可在托盘菜单删除已保存的密钥并关闭查询。
+
+WorkBuddy 登录使用 `%LOCALAPPDATA%\AgentMeter\webprofiles\workbuddy` 独立目录，保存网站 Cookie 和网页存储，不读取已有浏览器资料。取消登录不会清除资料；「清除本地登录」清理该目录对应的浏览数据，不等于在服务端退出登录。启用后，所需 Cookie 和浏览器标识经本地子进程标准输入传递，发送至 WorkBuddy 的 HTTPS 用量接口，不写入命令行或应用日志。程序检查目录重定向及可能覆盖资料目录的 WebView2 设置，无法确认隔离时停止连接；系统中与本应用无关的覆盖策略也可能导致停用。登录主窗口和弹窗仅允许 WorkBuddy、QQ 和腾讯域名的 HTTPS 跳转，外部应用和下载被阻止，其他登录方式可能无法使用。网站仍可能加载自身所需的网页资源。
+
+原 macOS 项目的可选积分领取功能没有在 Windows 界面开放。如果工作环境对本机会话访问有要求，请自行检查代码和相应服务的使用规则。
+
+
+托盘余量来源保存在同目录的 `tray-display.json`，只包含模式标识，不保存额度快照、账户名称或凭据。托盘图标仅使用已采集的账户结果，更新图标不会额外请求账户接口。
+
+返回[项目首页](../README.md)。

diff --git a/windows/README.md b/windows/README.md
@@ -3,3 +3,5 @@
 本目录包含 Windows 托盘界面、采集适配层、构建脚本和测试入口。当前功能与原 macOS 版仍有差距；范围、使用方法和限制见[项目首页](../README.md)，移植进度见[移植计划](PORT_PLAN.md)。
 
 日常交互见[快速使用](QUICK_START.md)，弹层的尺寸、收起行为、时间口径和验证边界见[设计说明](DESIGN.md)，各版变化见[更新记录](CHANGELOG.md)。Windows 新代码、注释与文档以中文为主。
+
+网络访问、凭据、本地缓存及清理行为见[隐私与本地数据](PRIVACY.md)。
